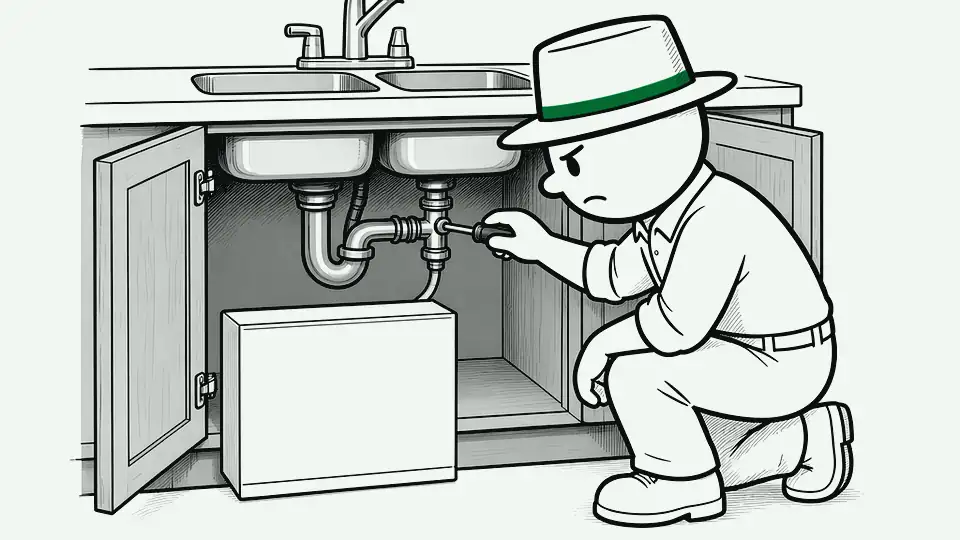
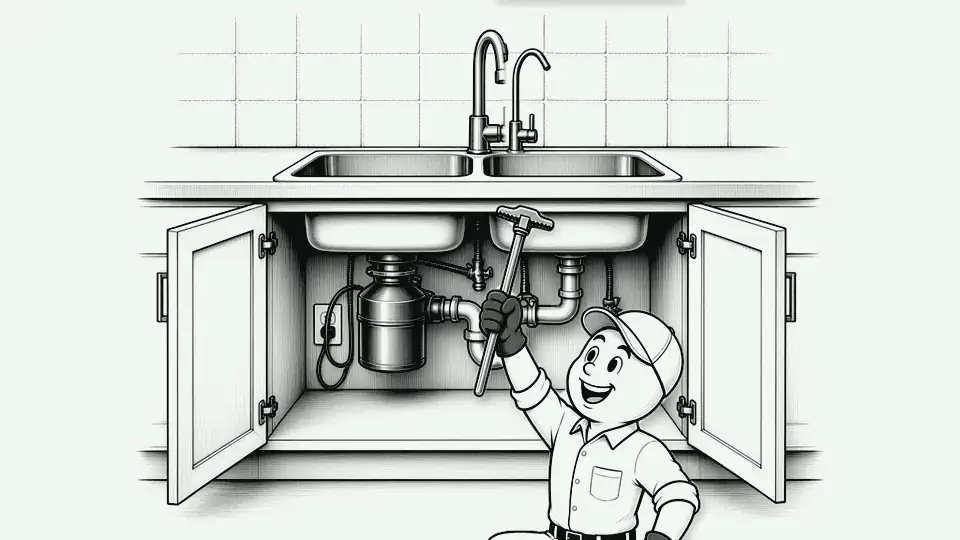
ironro: 6-frame RO install scene (isolated mascot on kitchen plates)

diff --git a/scenes/ironro.js b/scenes/ironro.js
@@ -1,1 +1,1 @@
-(window.EESceneData=window.EESceneData||{})["ironro"]={"kind":"kf","w":960,"h":540,"title":"Reverse osmosis filter installed","alt":"Cold stop off under the sink, a drain saddle clamped on the tailpiece, the RO filters and storage tank mounted in the cabinet, a slim RO faucet set in the sink deck, and a glass of clean water.","frames":[{"src":"scenes/kf/ironro-1.webp?v=6","hold":560,"tw":{"x":-4},"o":[{"x":19,"y":38,"t":"word","text":"COLD OFF","s":32}]},{"src":"scenes/kf/ironro-2.webp?v=6","hold":560,"tw":{"y":-6}},{"src":"scenes/kf/ironro-3.webp?v=6","hold":560,"tw":{"x":5,"ms":240},"o":[{"x":525,"y":141,"t":"effort","a":-40}]},{"src":"scenes/kf/ironro-4.webp?v=6","hold":560,"tw":{"sy":0.99,"ms":200}},{"src":"scenes/kf/ironro-5.webp?v=6","hold":760,"tw":{"y":8,"r":-1,"ms":300},"o":[{"x":110,"y":100,"t":"check"}]}],"placeholder":false};
+(window.EESceneData=window.EESceneData||{})["ironro"]={"kind":"kf","w":960,"h":540,"title":"Reverse osmosis system installed","alt":"He shuts off the cold-water stop under the kitchen sink, tightens the RO faucet's mounting nut under the deck with a basin wrench, carries the RO filter unit in and sets it in the cabinet, pushes the tubing into its push-fit fitting, pours a glass of filtered water at the new faucet, and gives a thumbs-up with the full glass.","frames":[{"src":"scenes/kf/ironro-1.webp?v=7.2","hold":500,"tw":{"x":-3},"o":[{"x":38,"y":66,"t":"word","text":"COLD OFF","s":39}]},{"src":"scenes/kf/ironro-2.webp?v=7.2","hold":520,"tw":{"y":-4},"o":[{"x":38,"y":66,"t":"word","text":"MOUNT IT","s":39}]},{"src":"scenes/kf/ironro-3.webp?v=7.2","hold":500,"tw":{"x":4,"ms":240},"o":[{"x":38,"y":66,"t":"word","text":"RO UNIT","s":39}]},{"src":"scenes/kf/ironro-4.webp?v=7.2","hold":520,"tw":{"sy":0.99,"ms":200},"o":[{"x":38,"y":66,"t":"word","text":"PUSH-FIT","s":39}]},{"src":"scenes/kf/ironro-5.webp?v=7.2","hold":500,"tw":{"y":-4},"o":[{"x":38,"y":66,"t":"word","text":"TASTE TEST","s":38}]},{"src":"scenes/kf/ironro-6.webp?v=7.2","hold":1000,"tw":{"y":6,"r":-0.8,"ms":300},"o":[{"x":850,"y":100,"t":"check"}]}],"placeholder":false};
